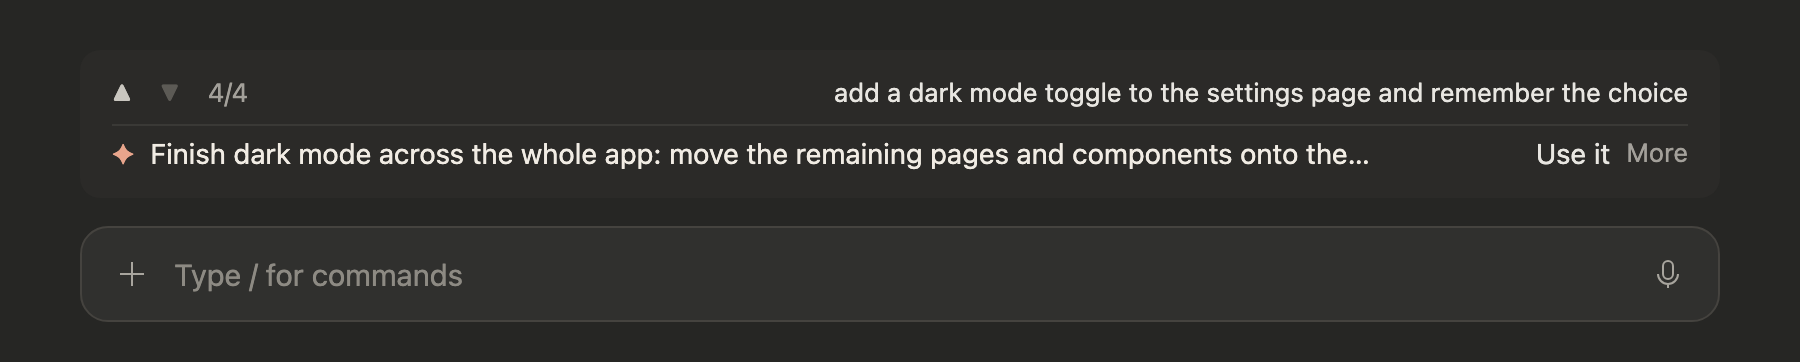
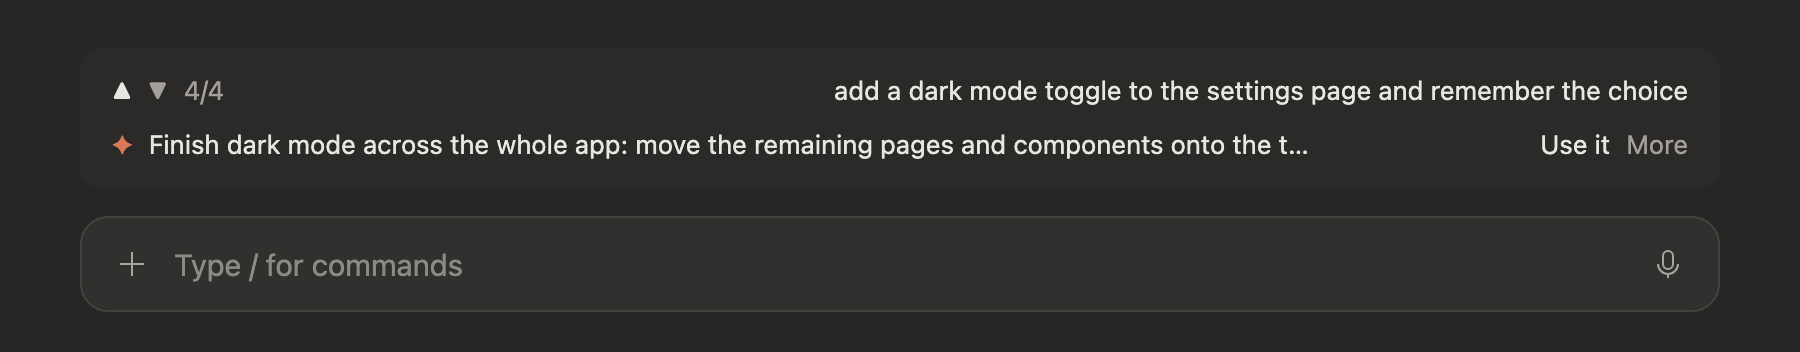
Match the README mock-ups to what the mod draws
Redraw the five README screens from the code:
- No divider between the history row and the suggestion, one text size
  throughout, the ✦ in the code's colour, ▲ ▼ and the counter shaded as
  the code draws them.
- After a reply / Autopilot: drop the prompt bubble; the history row hides
  while the newest prompt is still on screen, so both can't show at once.
- Mode dropdown: options are just Nudge, Push and Autopilot (no
  descriptions or check mark).
- Folded view: cut at 89 characters plus an ellipsis, as the code does.

README: describe the real behaviour around each screen (when Use it
appears, smart hiding of the history row, what Less hides, the thinking
wording per mode, the retry, extra Opus calls, Autopilot's safety rule as
an instruction rather than a guarantee). Give the thinking screen its own
section instead of sitting under Less and More. Add the mock-up sources
and the script that renders them under docs/mockups.

Fix a stale comment in guess(): an empty or failed answer is retried once.

diff --git a/docs/mockups/Readme-modes.dc.html b/docs/mockups/Readme-modes.dc.html
@@ -1,0 +1,62 @@
+<!doctype html>
+<html lang="en">
+<head>
+<meta charset="utf-8">
+<title>steady-suggest: Mode dropdown</title>
+<script src="./support.js"></script>
+</head>
+<body>
+<x-dc>
+<helmet>
+<style>
+body{margin:0}
+a{color:#e8a58c}a:hover{color:#f3c2ae}
+</style>
+</helmet>
+<div style="width: 900px; height: 320px; box-sizing: border-box; padding: 24px 40px 20px; background: #262624; color: #e8e6e1; font-family: system-ui, -apple-system, 'Segoe UI', sans-serif; display: flex; flex-direction: column; justify-content: flex-end; gap: 14px">
+  <div style="display: flex; flex-direction: column; gap: 8px; padding: 12px 16px; background: #2b2a28; border-radius: 10px; font-size: 13px; line-height: 1.45">
+    <div style="display: flex; align-items: center; gap: 16px">
+      <div style="display: flex; align-items: center; gap: 8px; flex-shrink: 0">
+        <button type="button" aria-label="Older prompt" style="font: inherit; padding: 0; background: transparent; border: 0; color: #e8e6e1">▲</button>
+        <button type="button" aria-label="Newer prompt" disabled style="font: inherit; padding: 0; background: transparent; border: 0; color: #a3a09a">▼</button>
+        <span style="color: #a3a09a">4/4</span>
+      </div>
+      <p style="flex: 1; min-width: 0; margin: 0; text-align: right">add a dark mode toggle to the settings page and remember the choice</p>
+    </div>
+    <div style="display: flex; flex-direction: column; gap: 2px">
+      <div style="display: flex; align-items: center; gap: 8px; min-width: 0">
+        <span style="color: #d97757; flex-shrink: 0" aria-hidden="true">✦</span>
+        <button type="button" style="font: inherit; min-width: 0; padding: 0; background: transparent; border: 0; color: #e8e6e1; text-align: left; white-space: nowrap; overflow: hidden; text-overflow: ellipsis; cursor: pointer">run the tests</button>
+      </div>
+      <div style="display: flex; align-items: flex-start; gap: 16px; padding-left: 22px">
+        <p style="flex: 1; min-width: 0; margin: 0; color: #a3a09a">Claude added tests but hasn't run them. · Last reply: Added a saved dark mode toggle to Settings, with two tests.</p>
+        <div style="display: flex; align-items: center; gap: 16px; flex-shrink: 0">
+          <div style="position: relative">
+            <button type="button" aria-haspopup="listbox" aria-expanded="true" style="font: inherit; display: inline-flex; align-items: center; gap: 6px; padding: 0 8px; background: #3a3936; border: 1px solid #55534e; border-radius: 6px; color: #e8e6e1; cursor: pointer"><span style="color: #a3a09a">Mode</span>Nudge<svg width="10" height="10" viewBox="0 0 10 10" aria-hidden="true"><path d="M2 6.5l3-3 3 3" fill="none" stroke="#a3a09a" strokeWidth="1.4" strokeLinecap="round"></path></svg></button>
+            <div role="listbox" aria-label="Mode" style="position: absolute; right: 0; bottom: 26px; min-width: 140px; display: flex; flex-direction: column; gap: 2px; padding: 4px; background: #3a3936; border: 1px solid #55534e; border-radius: 8px; box-shadow: 0 8px 24px rgba(0, 0, 0, 0.35)">
+              <button type="button" role="option" aria-selected="true" style="font: inherit; padding: 4px 8px; background: #45433f; border: 0; border-radius: 5px; color: #e8e6e1; text-align: left; cursor: pointer">Nudge</button>
+              <button type="button" role="option" aria-selected="false" style="font: inherit; padding: 4px 8px; background: transparent; border: 0; border-radius: 5px; color: #e8e6e1; text-align: left; cursor: pointer">Push</button>
+              <button type="button" role="option" aria-selected="false" style="font: inherit; padding: 4px 8px; background: transparent; border: 0; border-radius: 5px; color: #e8e6e1; text-align: left; cursor: pointer">Autopilot</button>
+            </div>
+          </div>
+          <button type="button" style="font: inherit; padding: 0; background: transparent; border: 0; color: #a3a09a; cursor: pointer">Less</button>
+        </div>
+      </div>
+    </div>
+  </div>
+  <div style="display: flex; align-items: center; gap: 12px; padding: 14px 16px; background: #30302e; border: 1px solid #45433f; border-radius: 14px">
+    <svg width="18" height="18" viewBox="0 0 18 18" fill="none" stroke="#a8a59e" strokeWidth="1.6" strokeLinecap="round" aria-hidden="true"><path d="M9 3v12M3 9h12"></path></svg>
+    <p style="flex: 1; min-width: 0; margin: 0; font-size: 15px; color: #8d8a83">Type / for commands</p>
+    <svg width="18" height="18" viewBox="0 0 18 18" fill="none" stroke="#a8a59e" strokeWidth="1.6" strokeLinecap="round" aria-hidden="true"><rect x="6.5" y="2.5" width="5" height="9" rx="2.5"></rect><path d="M4 9a5 5 0 0 0 10 0M9 14v2"></path></svg>
+  </div>
+</div>
+</x-dc>
+<script type="text/x-dc" data-dc-script data-props='{"$preview":{"width":900,"height":320}}'>
+class Component extends DCLogic {
+renderVals() {
+return {};
+}
+}
+</script>
+</body>
+</html>

diff --git a/docs/mockups/Readme-autopilot.dc.html b/docs/mockups/Readme-autopilot.dc.html
@@ -1,0 +1,57 @@
+<!doctype html>
+<html lang="en">
+<head>
+<meta charset="utf-8">
+<title>steady-suggest: Autopilot brief</title>
+<script src="./support.js"></script>
+</head>
+<body>
+<x-dc>
+<helmet>
+<style>
+body{margin:0}
+a{color:#e8a58c}a:hover{color:#f3c2ae}
+</style>
+</helmet>
+<div style="width: 900px; height: 400px; box-sizing: border-box; padding: 28px 40px 20px; background: #262624; color: #e8e6e1; font-family: system-ui, -apple-system, 'Segoe UI', sans-serif; display: flex; flex-direction: column; justify-content: flex-end; gap: 14px">
+  <p style="margin: 0; max-width: 700px; font-size: 15px; line-height: 1.6">Done. Settings now has a <strong>Dark mode</strong> toggle. The choice is saved in localStorage and applied on load, so it survives a refresh. I changed <code style="font-size: 13px; color: #e8a58c">SettingsPage.tsx</code> and <code style="font-size: 13px; color: #e8a58c">theme.ts</code> and added two tests for the toggle.</p>
+  <div style="display: flex; flex-direction: column; gap: 8px; padding: 12px 16px; background: #2b2a28; border-radius: 10px; font-size: 13px; line-height: 1.45">
+    <div style="display: flex; align-items: center; gap: 16px">
+      <div style="display: flex; align-items: center; gap: 8px; flex-shrink: 0">
+        <button type="button" aria-label="Older prompt" style="font: inherit; padding: 0; background: transparent; border: 0; color: #e8e6e1">▲</button>
+        <button type="button" aria-label="Newer prompt" disabled style="font: inherit; padding: 0; background: transparent; border: 0; color: #a3a09a">▼</button>
+        <span style="color: #a3a09a">4/4</span>
+      </div>
+      <p style="flex: 1; min-width: 0; margin: 0; text-align: right">add a dark mode toggle to the settings page and remember the choice</p>
+    </div>
+    <div style="display: flex; flex-direction: column; gap: 2px">
+      <div style="display: flex; align-items: flex-start; gap: 8px; min-width: 0">
+        <span style="color: #d97757; flex-shrink: 0" aria-hidden="true">✦</span>
+        <p style="flex: 1; min-width: 0; margin: 0">Finish dark mode across the whole app: move the remaining pages and components onto the theme colours from theme.ts, make sure charts and code blocks follow the toggle too, add a test that the choice survives a reload, run the unit tests and the settings tests, and fix anything that breaks. Keep going until every page follows the toggle, without checking in unless you are blocked.</p>
+        <button type="button" style="font: inherit; flex-shrink: 0; padding: 0; background: transparent; border: 0; color: #e8e6e1; cursor: pointer">Use it</button>
+      </div>
+      <div style="display: flex; align-items: flex-start; gap: 16px; padding-left: 22px">
+        <p style="flex: 1; min-width: 0; margin: 0; color: #a3a09a">Only Settings follows the toggle so far. · Last reply: Added a saved dark mode toggle to Settings, with two tests.</p>
+        <div style="display: flex; align-items: center; gap: 16px; flex-shrink: 0">
+          <button type="button" aria-haspopup="listbox" style="font: inherit; display: inline-flex; align-items: center; gap: 6px; padding: 0 8px; background: #3a3936; border: 1px solid #55534e; border-radius: 6px; color: #e8e6e1; cursor: pointer"><span style="color: #a3a09a">Mode</span>Autopilot<svg width="10" height="10" viewBox="0 0 10 10" aria-hidden="true"><path d="M2 3.5l3 3 3-3" fill="none" stroke="#a3a09a" strokeWidth="1.4" strokeLinecap="round"></path></svg></button>
+          <button type="button" style="font: inherit; padding: 0; background: transparent; border: 0; color: #a3a09a; cursor: pointer">Less</button>
+        </div>
+      </div>
+    </div>
+  </div>
+  <div style="display: flex; align-items: center; gap: 12px; padding: 14px 16px; background: #30302e; border: 1px solid #45433f; border-radius: 14px">
+    <svg width="18" height="18" viewBox="0 0 18 18" fill="none" stroke="#a8a59e" strokeWidth="1.6" strokeLinecap="round" aria-hidden="true"><path d="M9 3v12M3 9h12"></path></svg>
+    <p style="flex: 1; min-width: 0; margin: 0; font-size: 15px; color: #8d8a83">Type / for commands</p>
+    <svg width="18" height="18" viewBox="0 0 18 18" fill="none" stroke="#a8a59e" strokeWidth="1.6" strokeLinecap="round" aria-hidden="true"><rect x="6.5" y="2.5" width="5" height="9" rx="2.5"></rect><path d="M4 9a5 5 0 0 0 10 0M9 14v2"></path></svg>
+  </div>
+</div>
+</x-dc>
+<script type="text/x-dc" data-dc-script data-props='{"$preview":{"width":900,"height":400}}'>
+class Component extends DCLogic {
+renderVals() {
+return {};
+}
+}
+</script>
+</body>
+</html>

diff --git a/docs/mockups/Readme-push.dc.html b/docs/mockups/Readme-push.dc.html
@@ -1,0 +1,56 @@
+<!doctype html>
+<html lang="en">
+<head>
+<meta charset="utf-8">
+<title>steady-suggest: after a reply</title>
+<script src="./support.js"></script>
+</head>
+<body>
+<x-dc>
+<helmet>
+<style>
+body{margin:0}
+a{color:#e8a58c}a:hover{color:#f3c2ae}
+</style>
+</helmet>
+<div style="width: 900px; height: 340px; box-sizing: border-box; padding: 28px 40px 20px; background: #262624; color: #e8e6e1; font-family: system-ui, -apple-system, 'Segoe UI', sans-serif; display: flex; flex-direction: column; justify-content: flex-end; gap: 14px">
+  <p style="margin: 0; max-width: 700px; font-size: 15px; line-height: 1.6">Done. Settings now has a <strong>Dark mode</strong> toggle. The choice is saved in localStorage and applied on load, so it survives a refresh. I changed <code style="font-size: 13px; color: #e8a58c">SettingsPage.tsx</code> and <code style="font-size: 13px; color: #e8a58c">theme.ts</code> and added two tests for the toggle.</p>
+  <div style="display: flex; flex-direction: column; gap: 8px; padding: 12px 16px; background: #2b2a28; border-radius: 10px; font-size: 13px; line-height: 1.45">
+    <div style="display: flex; align-items: center; gap: 16px">
+      <div style="display: flex; align-items: center; gap: 8px; flex-shrink: 0">
+        <button type="button" aria-label="Older prompt" style="font: inherit; padding: 0; background: transparent; border: 0; color: #e8e6e1">▲</button>
+        <button type="button" aria-label="Newer prompt" disabled style="font: inherit; padding: 0; background: transparent; border: 0; color: #a3a09a">▼</button>
+        <span style="color: #a3a09a">4/4</span>
+      </div>
+      <p style="flex: 1; min-width: 0; margin: 0; text-align: right">add a dark mode toggle to the settings page and remember the choice</p>
+    </div>
+    <div style="display: flex; flex-direction: column; gap: 2px">
+      <div style="display: flex; align-items: center; gap: 8px; min-width: 0">
+        <span style="color: #d97757; flex-shrink: 0" aria-hidden="true">✦</span>
+        <button type="button" style="font: inherit; min-width: 0; padding: 0; background: transparent; border: 0; color: #e8e6e1; text-align: left; white-space: nowrap; overflow: hidden; text-overflow: ellipsis; cursor: pointer">Run the settings tests, then check the toggle in a phone-sized window.</button>
+      </div>
+      <div style="display: flex; align-items: flex-start; gap: 16px; padding-left: 22px">
+        <p style="flex: 1; min-width: 0; margin: 0; color: #a3a09a">The toggle is in but hasn't been run or seen yet. · Last reply: Added a saved dark mode toggle to Settings, with two tests.</p>
+        <div style="display: flex; align-items: center; gap: 16px; flex-shrink: 0">
+          <button type="button" aria-haspopup="listbox" style="font: inherit; display: inline-flex; align-items: center; gap: 6px; padding: 0 8px; background: #3a3936; border: 1px solid #55534e; border-radius: 6px; color: #e8e6e1; cursor: pointer"><span style="color: #a3a09a">Mode</span>Push<svg width="10" height="10" viewBox="0 0 10 10" aria-hidden="true"><path d="M2 3.5l3 3 3-3" fill="none" stroke="#a3a09a" strokeWidth="1.4" strokeLinecap="round"></path></svg></button>
+          <button type="button" style="font: inherit; padding: 0; background: transparent; border: 0; color: #a3a09a; cursor: pointer">Less</button>
+        </div>
+      </div>
+    </div>
+  </div>
+  <div style="display: flex; align-items: center; gap: 12px; padding: 14px 16px; background: #30302e; border: 1px solid #45433f; border-radius: 14px">
+    <svg width="18" height="18" viewBox="0 0 18 18" fill="none" stroke="#a8a59e" strokeWidth="1.6" strokeLinecap="round" aria-hidden="true"><path d="M9 3v12M3 9h12"></path></svg>
+    <p style="flex: 1; min-width: 0; margin: 0; font-size: 15px; color: #8d8a83">Type / for commands</p>
+    <svg width="18" height="18" viewBox="0 0 18 18" fill="none" stroke="#a8a59e" strokeWidth="1.6" strokeLinecap="round" aria-hidden="true"><rect x="6.5" y="2.5" width="5" height="9" rx="2.5"></rect><path d="M4 9a5 5 0 0 0 10 0M9 14v2"></path></svg>
+  </div>
+</div>
+</x-dc>
+<script type="text/x-dc" data-dc-script data-props='{"$preview":{"width":900,"height":340}}'>
+class Component extends DCLogic {
+renderVals() {
+return {};
+}
+}
+</script>
+</body>
+</html>

diff --git a/docs/mockups/Readme-folded.dc.html b/docs/mockups/Readme-folded.dc.html
@@ -1,0 +1,48 @@
+<!doctype html>
+<html lang="en">
+<head>
+<meta charset="utf-8">
+<title>steady-suggest: folded to one line</title>
+<script src="./support.js"></script>
+</head>
+<body>
+<x-dc>
+<helmet>
+<style>
+body{margin:0}
+a{color:#e8a58c}a:hover{color:#f3c2ae}
+</style>
+</helmet>
+<div style="width: 900px; height: 300px; box-sizing: border-box; padding: 24px 40px 20px; background: #262624; color: #e8e6e1; font-family: system-ui, -apple-system, 'Segoe UI', sans-serif; display: flex; flex-direction: column; justify-content: flex-end; gap: 14px">
+  <div style="display: flex; flex-direction: column; gap: 8px; padding: 12px 16px; background: #2b2a28; border-radius: 10px; font-size: 13px; line-height: 1.45">
+    <div style="display: flex; align-items: center; gap: 16px">
+      <div style="display: flex; align-items: center; gap: 8px; flex-shrink: 0">
+        <button type="button" aria-label="Older prompt" style="font: inherit; padding: 0; background: transparent; border: 0; color: #e8e6e1">▲</button>
+        <button type="button" aria-label="Newer prompt" disabled style="font: inherit; padding: 0; background: transparent; border: 0; color: #a3a09a">▼</button>
+        <span style="color: #a3a09a">4/4</span>
+      </div>
+      <p style="flex: 1; min-width: 0; margin: 0; text-align: right">add a dark mode toggle to the settings page and remember the choice</p>
+    </div>
+    <div style="display: flex; align-items: center; gap: 8px; min-width: 0">
+      <span style="color: #d97757; flex-shrink: 0" aria-hidden="true">✦</span>
+      <p style="flex: 1; min-width: 0; margin: 0; white-space: nowrap; overflow: hidden; text-overflow: ellipsis">Finish dark mode across the whole app: move the remaining pages and components onto the t…</p>
+      <button type="button" style="font: inherit; flex-shrink: 0; padding: 0; background: transparent; border: 0; color: #e8e6e1; cursor: pointer">Use it</button>
+      <button type="button" style="font: inherit; flex-shrink: 0; padding: 0; background: transparent; border: 0; color: #a3a09a; cursor: pointer">More</button>
+    </div>
+  </div>
+  <div style="display: flex; align-items: center; gap: 12px; padding: 14px 16px; background: #30302e; border: 1px solid #45433f; border-radius: 14px">
+    <svg width="18" height="18" viewBox="0 0 18 18" fill="none" stroke="#a8a59e" strokeWidth="1.6" strokeLinecap="round" aria-hidden="true"><path d="M9 3v12M3 9h12"></path></svg>
+    <p style="flex: 1; min-width: 0; margin: 0; font-size: 15px; color: #8d8a83">Type / for commands</p>
+    <svg width="18" height="18" viewBox="0 0 18 18" fill="none" stroke="#a8a59e" strokeWidth="1.6" strokeLinecap="round" aria-hidden="true"><rect x="6.5" y="2.5" width="5" height="9" rx="2.5"></rect><path d="M4 9a5 5 0 0 0 10 0M9 14v2"></path></svg>
+  </div>
+</div>
+</x-dc>
+<script type="text/x-dc" data-dc-script data-props='{"$preview":{"width":900,"height":300}}'>
+class Component extends DCLogic {
+renderVals() {
+return {};
+}
+}
+</script>
+</body>
+</html>

diff --git a/docs/mockups/Readme-thinking.dc.html b/docs/mockups/Readme-thinking.dc.html
@@ -1,0 +1,46 @@
+<!doctype html>
+<html lang="en">
+<head>
+<meta charset="utf-8">
+<title>steady-suggest: writing a suggestion</title>
+<script src="./support.js"></script>
+</head>
+<body>
+<x-dc>
+<helmet>
+<style>
+body{margin:0}
+a{color:#e8a58c}a:hover{color:#f3c2ae}
+</style>
+</helmet>
+<div style="width: 900px; height: 300px; box-sizing: border-box; padding: 24px 40px 20px; background: #262624; color: #e8e6e1; font-family: system-ui, -apple-system, 'Segoe UI', sans-serif; display: flex; flex-direction: column; justify-content: flex-end; gap: 14px">
+  <div style="display: flex; flex-direction: column; gap: 8px; padding: 12px 16px; background: #2b2a28; border-radius: 10px; font-size: 13px; line-height: 1.45">
+    <div style="display: flex; align-items: center; gap: 16px">
+      <div style="display: flex; align-items: center; gap: 8px; flex-shrink: 0">
+        <button type="button" aria-label="Older prompt" style="font: inherit; padding: 0; background: transparent; border: 0; color: #e8e6e1">▲</button>
+        <button type="button" aria-label="Newer prompt" disabled style="font: inherit; padding: 0; background: transparent; border: 0; color: #a3a09a">▼</button>
+        <span style="color: #a3a09a">4/4</span>
+      </div>
+      <p style="flex: 1; min-width: 0; margin: 0; text-align: right">add a dark mode toggle to the settings page and remember the choice</p>
+    </div>
+    <div style="display: flex; align-items: center; gap: 8px">
+      <svg width="26" height="8" viewBox="0 0 26 8" aria-hidden="true"><circle cx="4" cy="4" r="3" fill="#d97757" opacity="1"></circle><circle cx="13" cy="4" r="3" fill="#d97757" opacity="0.6"></circle><circle cx="22" cy="4" r="3" fill="#d97757" opacity="0.3"></circle></svg>
+      <span style="color: #a3a09a">Thinking of an Autopilot suggestion…</span>
+    </div>
+  </div>
+  <div style="display: flex; align-items: center; gap: 12px; padding: 14px 16px; background: #30302e; border: 1px solid #45433f; border-radius: 14px">
+    <svg width="18" height="18" viewBox="0 0 18 18" fill="none" stroke="#a8a59e" strokeWidth="1.6" strokeLinecap="round" aria-hidden="true"><path d="M9 3v12M3 9h12"></path></svg>
+    <p style="flex: 1; min-width: 0; margin: 0; font-size: 15px; color: #8d8a83">Type / for commands</p>
+    <svg width="18" height="18" viewBox="0 0 18 18" fill="none" stroke="#a8a59e" strokeWidth="1.6" strokeLinecap="round" aria-hidden="true"><rect x="6.5" y="2.5" width="5" height="9" rx="2.5"></rect><path d="M4 9a5 5 0 0 0 10 0M9 14v2"></path></svg>
+  </div>
+</div>
+</x-dc>
+<script type="text/x-dc" data-dc-script data-props='{"$preview":{"width":900,"height":300}}'>
+class Component extends DCLogic {
+renderVals() {
+return {};
+}
+}
+</script>
+</body>
+</html>

diff --git a/hooks/suggestions.tsx b/hooks/suggestions.tsx
@@ -53,7 +53,7 @@ const SETTLE_MS = 400
 const RETRY_MS = 1_500
 const LOG_LINES = 500
 const RECENT = 8
-// A guess that fails the checks gets one more try.
+// A guess that is empty or fails the checks gets one more try.
 const GUESSES = 2
 
 // What the transcript wraps around the person's own prompts.
@@ -382,7 +382,8 @@ async function guess($: EngineInterface, ask: string, why: string, rule: LengthR
   let rejected: string | undefined = 'empty'
   for (let tries = 0; tries < GUESSES && rejected !== undefined; tries += 1) {
     const retry = tries === 0 ? '' : `\n\nYour last guess "${picked.text}" was rejected (${rejected}). Give a different one.`
-    // An empty reply is the model staying silent on purpose, so it ends here.
+    // An empty or failed answer is retried once, told why; only a call that
+    // gets no answer at all ends the loop early.
     const reply = await $.model.complete({ model: MODEL, prompt: ask + retry, maxTokens: rule.maxTokens })
     if (!reply.isAnswered) {
       await note($, `no reply (${why}): ${reply.reason}`)

diff --git a/README.md b/README.md
@@ -6,32 +6,36 @@ It adds a strip above the prompt box:
 
 ![After a reply: the history row, the suggestion, its reason and a recap of the reply, and the Mode dropdown](docs/after-a-reply.png)
 
-<sub>Screens are design mock-ups of the desktop app's Code tab, drawn with a sample conversation.</sub>
+<sub>Screens are design mock-ups of the desktop app's Code tab, drawn with a sample conversation. The real strip uses the app's own fonts and colours. Their sources are in <code>docs/mockups</code>; <code>shoot.mjs</code> there renders them.</sub>
 
-- **History row** (top): your latest prompt, with ▲ ▼ to step back through earlier ones. `/prompts` opens them all in a pane; click one to copy it.
-- **Suggestion** (under it, desktop app): what you would likely type next. Click it (or **Use it** for a long one) to put it in the box. Nothing is sent until you press Enter.
+- **History row** (top): your latest prompt, with ▲ ▼ to step back through earlier ones. While your newest prompt is still on screen the row stays hidden (`/pin-prompt smart` turns that off). `/prompts` lists them all in a pane; click one to copy it.
+- **Suggestion** (under it, desktop app): what you would likely type next. Click it to put it in the box; a suggestion over 80 characters wraps, with a **Use it** button instead. Nothing is sent until you press Enter. The line hides while Claude is working and clears when you send your next message.
 - **Why and recap**: a one-sentence reason and a few words on Claude's last reply, on the dim line under the suggestion.
 - **Mode**: how far the suggestion goes.
-  - **Nudge**: 2–12 words, like Claude Code's own suggestion.
-  - **Push**: one or two sentences naming the concrete next task.
-  - **Autopilot**: a full hand-off brief (goal, steps, what done looks like, keep going until done unless blocked) so Claude can carry a feature or an investigation through. It leaves out deploying, pushing, merging, migrations and deleting data unless you already asked for them in the chat.
+  - **Nudge** (the default): 2–12 words, like Claude Code's own suggestion.
+  - **Push**: one or two sentences (10–40 words) naming the concrete next task and the files or checks it involves.
+  - **Autopilot**: a full hand-off brief (goal, steps, what done looks like, keep going until done unless blocked) so Claude can carry a feature or an investigation through. Opus is told to leave out deploying, pushing, merging, migrations, seed scripts and deleting data unless you already asked for them in the chat, so read a brief before you send it.
 - **Less / More**: fold the suggestion to one line, or show it in full. Your Mode and view are remembered across chats.
 
 ### Modes
 
+Pick a mode from the **Mode** dropdown at the end of the dim line. The suggestion for the current reply is written again at that length right away.
+
 ![The Mode dropdown open: Nudge, Push and Autopilot](docs/modes.png)
 
-Autopilot writes a brief Claude can run to the end on its own:
+Autopilot writes a brief Claude can run to the end on its own. The strip shows up to 600 characters of it; **Use it** puts the whole brief in the box.
 
 ![An Autopilot suggestion: a full paragraph with a Use it button](docs/autopilot.png)
 
 ### Less and More
 
-Fold a long suggestion to one line; **Use it** still puts the whole text in the box.
+**Less** folds the suggestion to one line and hides the reason line and the Mode dropdown. A long suggestion is cut at 90 characters, and **Use it** still puts the whole text in the box; a short one stays clickable. **More** brings the full view back.
 
 ![The suggestion folded to one line, with Use it and More](docs/folded.png)
 
-While a suggestion is being written, the strip says so:
+### While it thinks
+
+While a suggestion is being written, the line under the history row shows pulsing dots and "Thinking of a suggestion…" (in Push or Autopilot, "Thinking of a Push suggestion…" or "Thinking of an Autopilot suggestion…"). It stays up at least two seconds.
 
 ![Pulsing dots and "Thinking of an Autopilot suggestion…"](docs/thinking.png)
 
@@ -65,12 +69,12 @@ In the desktop app, where `/plugin` does not run: click **+** next to the prompt
 
 ## How it works
 
-1. When Claude's reply ends, the mod gathers your last few prompts and the end of the reply.
+1. When Claude's reply ends (or you open a chat that has no suggestion yet), the mod gathers your last few prompts and the end of the reply.
 2. It asks Opus, in a side call outside your chat, for three lines: the suggestion, why, and a recap. The Mode sets how long the suggestion may be and how much of the session Opus reads.
-3. It runs Claude Code's own checks on the suggestion (length, no "Let me…", no "looks good") and retries once if it fails.
+3. It checks the suggestion the way Claude Code checks its own (length, no "Let me…", no "looks good") and asks once more if it fails or comes back empty. If the second answer fails too, the line stays empty for that reply.
 4. It shows the result in the strip and, where the app allows, as the dim suggestion inside the box.
 
-**Cost:** every reply makes one Opus call on your own account. Autopilot calls are larger.
+**Cost:** every reply makes one Opus call on your own account, a second when the first suggestion fails the checks, and another each time you change the Mode. Autopilot calls are larger.
 
 **Desktop and terminal:** the suggestion strip draws in the desktop app's Code tab. In a terminal the mod fills in Claude Code's own suggestion on the turns where it skips one, and the history row adds a **Go to** button that scrolls the chat to that prompt (the desktop app does not let a mod scroll the chat).
 
